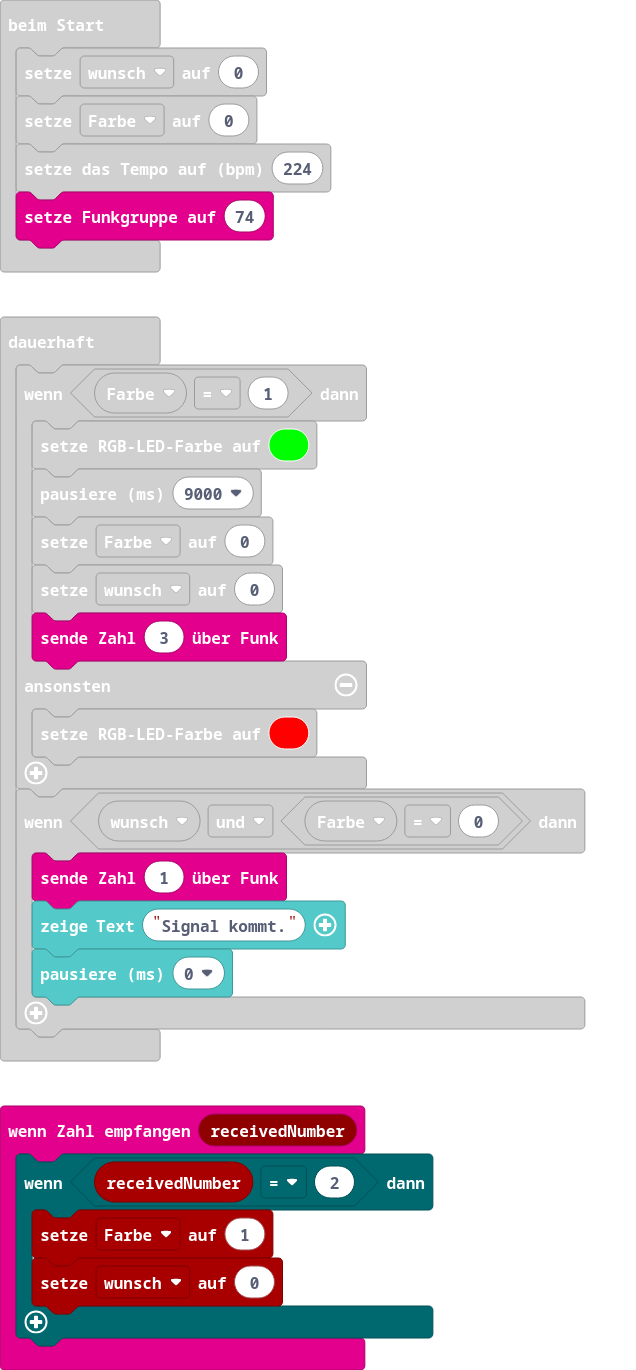
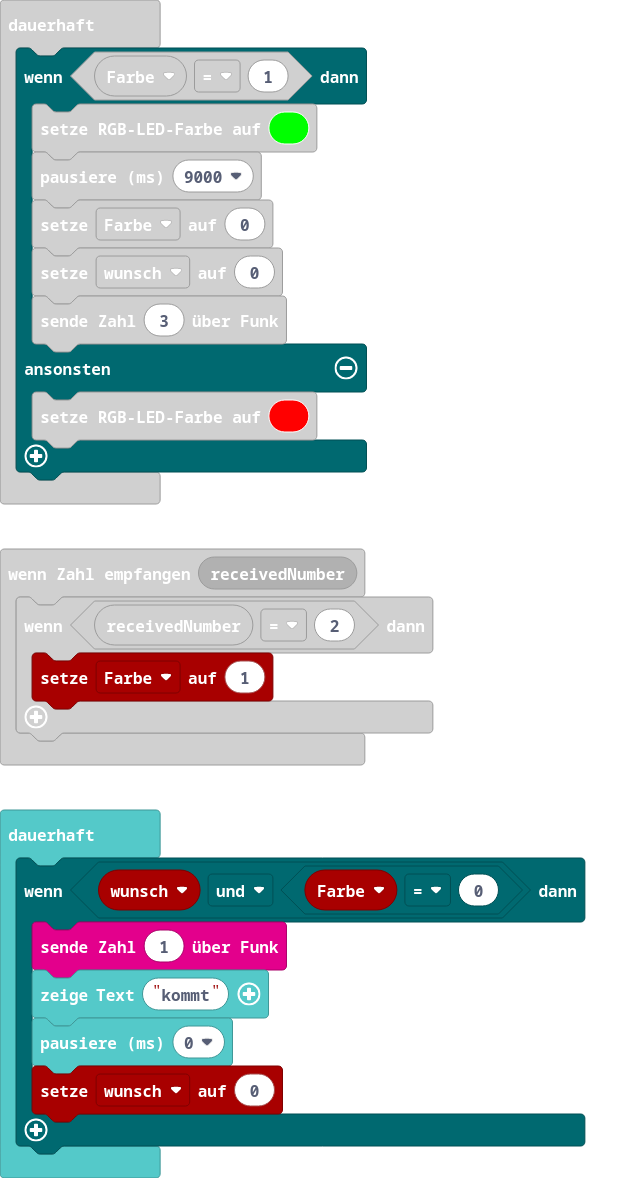
Aktualisiere main.blocks, main.ts

diff --git a/main.ts b/main.ts
@@ -1,7 +1,6 @@
 radio.onReceivedNumber(function (receivedNumber) {
     if (receivedNumber == 2) {
         Farbe = 1
-        wunsch = 0
     }
 })
 input.onButtonPressed(Button.A, function () {
@@ -23,11 +22,6 @@ basic.forever(function () {
     } else {
         basic.setLedColor(0xff0000)
     }
-    if (wunsch && Farbe == 0) {
-        radio.sendNumber(1)
-        basic.showString("Signal kommt.")
-        basic.pause(0)
-    }
 })
 basic.forever(function () {
     if (Farbe == 1) {
@@ -39,5 +33,13 @@ basic.forever(function () {
         music.setTempo(224)
         music.playTone(131, music.beat(BeatFraction.Quarter))
         music.rest(music.beat(BeatFraction.Breve))
+    }
+})
+basic.forever(function () {
+    if (wunsch && Farbe == 0) {
+        radio.sendNumber(1)
+        basic.showString("kommt")
+        basic.pause(0)
+        wunsch = 0
     }
 })
